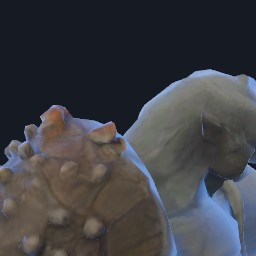
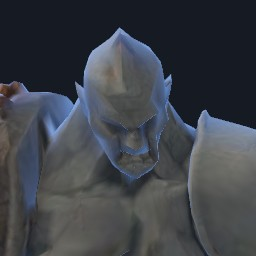
The portrait framed from where the head and shoulders are, without what's held
A head bone's turn can't be trusted on these rigs (Brun's face was shot from
behind): the camera now reads only positions, the face over the neck and the
facing square to the shoulders. What hangs from a hand or a forearm is left
out of the portrait's layer, so a raised shield doesn't hide the face.

Claude-Session: https://claude.ai/code/session_01GPN8sSQHwGCWFQoAwBao4h

diff --git a/crates/el-client/src/portrait.rs b/crates/el-client/src/portrait.rs
@@ -38,35 +38,39 @@ pub struct PortraitShown(pub [bool; VIEWS]);
 pub struct PortraitSubject {
     pub view: usize,
     pub still: bool,
-    /// Its head, which the camera frames and faces: a stance that crouches, leans or turns (an
-    /// assassin's, a guard's behind its shield) carries the head out of any frame fixed to the
-    /// body, or shows the back of it. `None` until it's found (the warm-up's piece): the frame is
-    /// then a standing figure's.
+    /// Its head and shoulders, which the camera frames and faces: a stance that crouches, leans
+    /// or turns (an assassin's, a guard's behind its shield) carries the head out of any frame
+    /// fixed to the body, or shows the back of it. `None` until they're found (the warm-up's
+    /// piece): the frame is then a standing figure's.
     pub head: Option<Head>,
 }
 
-/// A figure's head by its nodes: the bone (its base, the neck's top), its crown and the point in
-/// front of its face (`Head`, `head_end` and `headfront` in the champions' models).
+/// A figure's head and shoulders by their bones: the head's base (the neck's top) and its crown
+/// (`Head`, `head_end` in the champions' models), and the two shoulders. Only where they are is
+/// read, never how they're turned: these rigs are made by a machine, and a head's skin doesn't
+/// always hang on its bone's turn.
 #[derive(Clone, Copy)]
 pub struct Head {
     pub base: Entity,
     pub top: Entity,
-    pub front: Entity,
+    /// The left shoulder and the right.
+    pub shoulders: [Entity; 2],
 }
 
 impl Head {
     /// The head among a figure's nodes, by their names.
     pub fn find<'a>(nodes: impl IntoIterator<Item = (Entity, &'a str)>) -> Option<Head> {
-        let (mut base, mut top, mut front) = (None, None, None);
+        let (mut base, mut top, mut left, mut right) = (None, None, None, None);
         for (e, name) in nodes {
             match name {
                 "Head" => base = Some(e),
                 "head_end" => top = Some(e),
-                "headfront" => front = Some(e),
+                "LeftArm" => left = Some(e),
+                "RightArm" => right = Some(e),
                 _ => {}
             }
         }
-        Some(Head { base: base?, top: top?, front: front? })
+        Some(Head { base: base?, top: top?, shoulders: [left?, right?] })
     }
 }
 
@@ -159,7 +163,7 @@ fn setup(mut commands: Commands, mut images: ResMut<Assets<Image>>) {
 /// face's right, just under its eyes (a bowed head's face still shows), and out in front. The
 /// frame is then the head, a hood or a hat and the shoulders, whatever the stance.
 const EYE: Vec3 = Vec3::new(0.2, -0.03, 0.72);
-/// The middle of the face, from the head's base to its crown.
+/// The middle of the face over the head's base, of the head's length.
 const FACE: f32 = 0.42;
 /// Where a standing figure's face is, of its height: the frame of one whose head isn't found.
 const FACE_AT: f32 = 0.83;
@@ -211,9 +215,14 @@ fn follow(
             // bowed head); a standing figure's, facing as its body does, where there's no head.
             let body = gt.affine().transform_vector3(Vec3::Z).with_y(0.0).normalize_or(Vec3::Z);
             let (want, facing) = head
-                .and_then(|h| Some((place(h.base)?, place(h.top)?, place(h.front)?)))
-                .map_or((gt.transform_point(Vec3::Y * FACE_AT), body), |(base, top, front)| {
-                    (base.lerp(top, FACE), (front - base).with_y(0.0).normalize_or(body))
+                .and_then(|h| {
+                    Some((place(h.base)?, place(h.top)?, place(h.shoulders[0])?, place(h.shoulders[1])?))
+                })
+                .map_or((gt.transform_point(Vec3::Y * FACE_AT), body), |(base, top, left, right)| {
+                    // Up from the neck by the head's own length; out the way the chest faces
+                    // (square to the line from the right shoulder to the left).
+                    let face = base + Vec3::Y * base.distance(top) * FACE;
+                    (face, (left - right).cross(Vec3::Y).with_y(0.0).normalize_or(body))
                 });
             // Eased while it's near (the head's bob and turn); at once when it isn't (a blink, a
             // respawn, an ally's turn come round again).

diff --git a/crates/el-client/src/champions.rs b/crates/el-client/src/champions.rs
@@ -411,9 +411,23 @@ fn ready(
             }
         },
     );
+    // Whether a node hangs from a hand or a forearm.
+    let held = |mut c: Entity| {
+        while let Ok((name, parent)) = names.get(c) {
+            if matches!(name.as_str(), "LeftHand" | "RightHand" | "LeftForeArm" | "RightForeArm") {
+                return true;
+            }
+            let Some(p) = parent else { break };
+            c = p.parent();
+        }
+        false
+    };
     for c in children.iter_descendants(e) {
+        // In its portrait too, but for what it holds: a shield raised or a blade at guard stands
+        // between the face and the camera (what it wears on its head or its back stays).
         if let Some(v) = view
             && shapes.contains(c)
+            && !held(c)
         {
             commands.entity(c).insert(RenderLayers::from_layers(&[0, crate::portrait::layer(v)]));
         }
